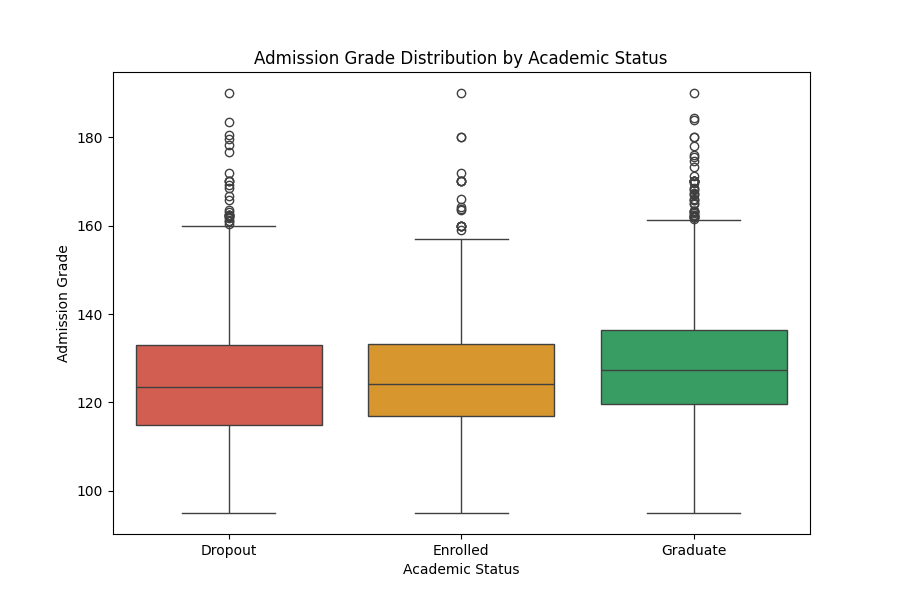
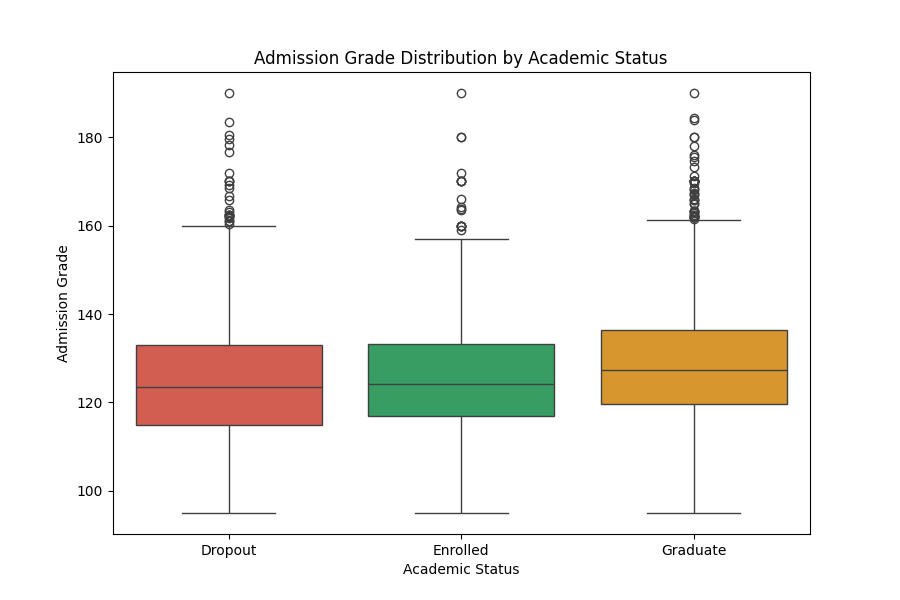
formated cde

Changed region(s): [[0.6533, 0.54, 0.9022, 0.69], [0.4044, 0.57, 0.6222, 0.72]]

diff --git a/src/main.py b/src/main.py
@@ -10,36 +10,39 @@ import os
 sys.path.insert(0, os.path.dirname(os.path.abspath(__file__)))
 
 
-# ========================================
 # 1. Load Dataset
-# ========================================
+
 file_path = "data/raw/dataset.csv"
 df = load_dataset(file_path)
 display_info(df)
+print("_" * 50)
 
-# ========================================
 # 2. Data Cleaning
-# ========================================
+
 df = clean_dataset(df)
+print("_" * 50)
 
-# ========================================
+
 # 3. NumPy Analysis
-# ========================================
+
 numpy_analysis(df)
+print("_" * 50)
 
-# ========================================
+
 # 4. EDA Analysis
-# ========================================
+
 eda_analysis(df)
+print("_" * 50)
 
-# ========================================
+
 # 5. Visualization
-# ========================================
-generate_all_visualizations(df)
 
-# ========================================
+generate_all_visualizations(df)
+print("_" * 50)
+
+
 # 6. Machine Learning
-# ========================================
+
 
 # Prepare data
 X, y = prepare_data(df)
@@ -56,7 +59,7 @@ dt_accuracy = evaluate_model(dt_model, X_test, y_test, "Decision Tree")
 rf_accuracy = evaluate_model(rf_model, X_test, y_test, "Random Forest")
 
 # Compare models
-print("\n── Model Comparison ──")
+print("\n== Model Comparison ==")
 print(f"Decision Tree accuracy : {dt_accuracy:.4f}")
 print(f"Random Forest accuracy : {rf_accuracy:.4f}")
 
@@ -64,3 +67,5 @@ if rf_accuracy > dt_accuracy:
     print("Best model: Random Forest")
 else:
     print("Best model: Decision Tree")
+
+print("_" * 50)

diff --git a/src/visualization.py b/src/visualization.py
@@ -1,7 +1,3 @@
-# القسم 4 — الرسوم البيانية     → visualization.py
-
-# src/visualization.py
-
 import matplotlib.pyplot as plt
 import seaborn as sns
 
@@ -64,8 +60,10 @@ def plot_admission_grade_boxplot(df):
         data=df,
         x="Target",
         y="Admission grade",
+        hue="Target",
         order=["Dropout", "Enrolled", "Graduate"],
-        palette=["#e74c3c", "#f39c12", "#27ae60"]
+        palette=["#e74c3c", "#f39c12", "#27ae60"],
+        legend=False
     )
     plt.title("Admission Grade Distribution by Academic Status")
     plt.xlabel("Academic Status")
@@ -127,9 +125,18 @@ def plot_correlation_heatmap(df):
 
 
 def generate_all_visualizations(df):
-    plot_target_distribution(df)
-    plot_avg_admission_grade(df)
-    plot_age_distribution(df)
-    plot_admission_grade_boxplot(df)
-    plot_semester_grades_scatter(df)
-    plot_correlation_heatmap(df)
+    visualizations = [
+        ("01 - Target Distribution", lambda: plot_target_distribution(df)),
+        ("02 - Avg Admission Grade", lambda: plot_avg_admission_grade(df)),
+        ("03 - Age Distribution", lambda: plot_age_distribution(df)),
+        ("04 - Admission Grade Boxplot", lambda: plot_admission_grade_boxplot(df)),
+        ("05 - Semester Grades Scatter", lambda: plot_semester_grades_scatter(df)),
+        ("06 - Correlation Heatmap", lambda: plot_correlation_heatmap(df)),
+    ]
+
+    for name, func in visualizations:
+        try:
+            func()
+            print(f"[OK] {name}")
+        except Exception as e:
+            print(f"[ERROR] {name} - {e}")

diff --git a/src/preprocessing.py b/src/preprocessing.py
@@ -1,6 +1,3 @@
-# src/preprocessing.py
-# القسم 2 — تنظيف البيانات      → preprocessing.py
-
 
 import pandas as pd
 

diff --git a/src/analysis.py b/src/analysis.py
@@ -1,5 +1,3 @@
-# src/analysis.py
-# القسم 3 — NumPy + EDA         → analysis.py
 
 
 import numpy as np

diff --git a/src/modeling.py b/src/modeling.py
@@ -1,4 +1,3 @@
-# src/modeling.py
 
 import pandas as pd
 from sklearn.model_selection import train_test_split

diff --git a/src/data_loader.py b/src/data_loader.py
@@ -1,4 +1,3 @@
-# src/data_loader.py
 
 import pandas as pd
 
